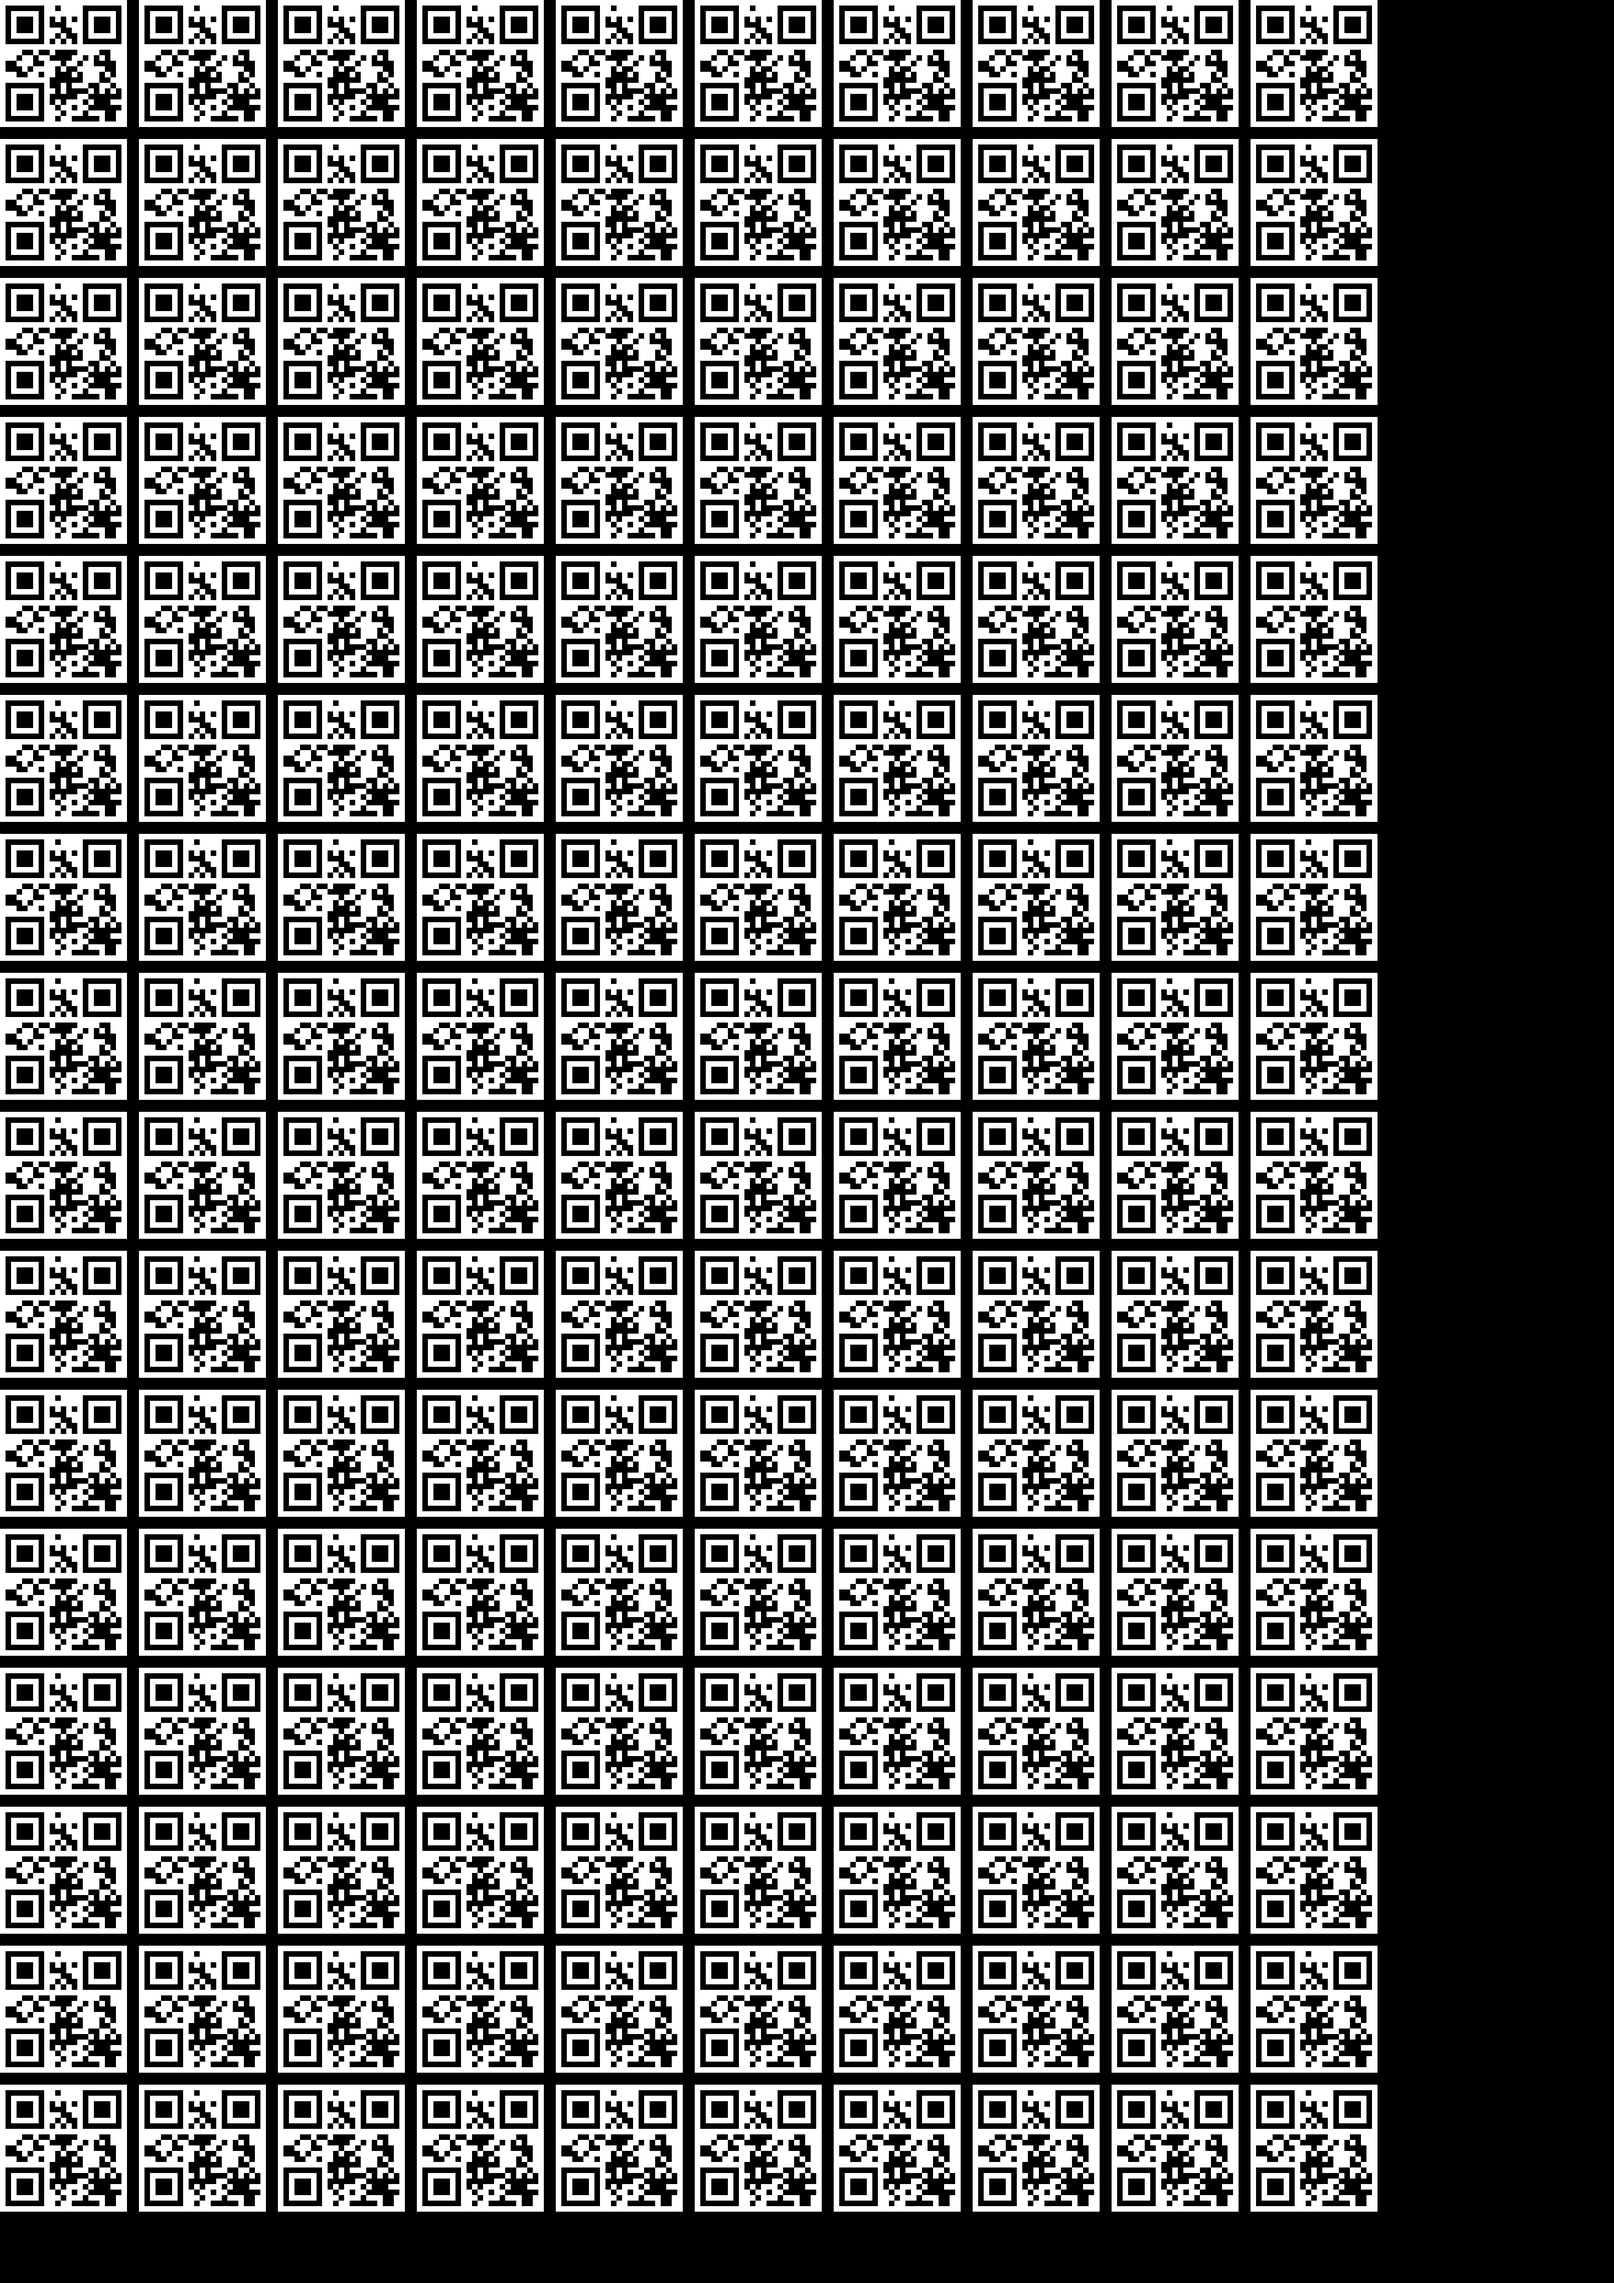
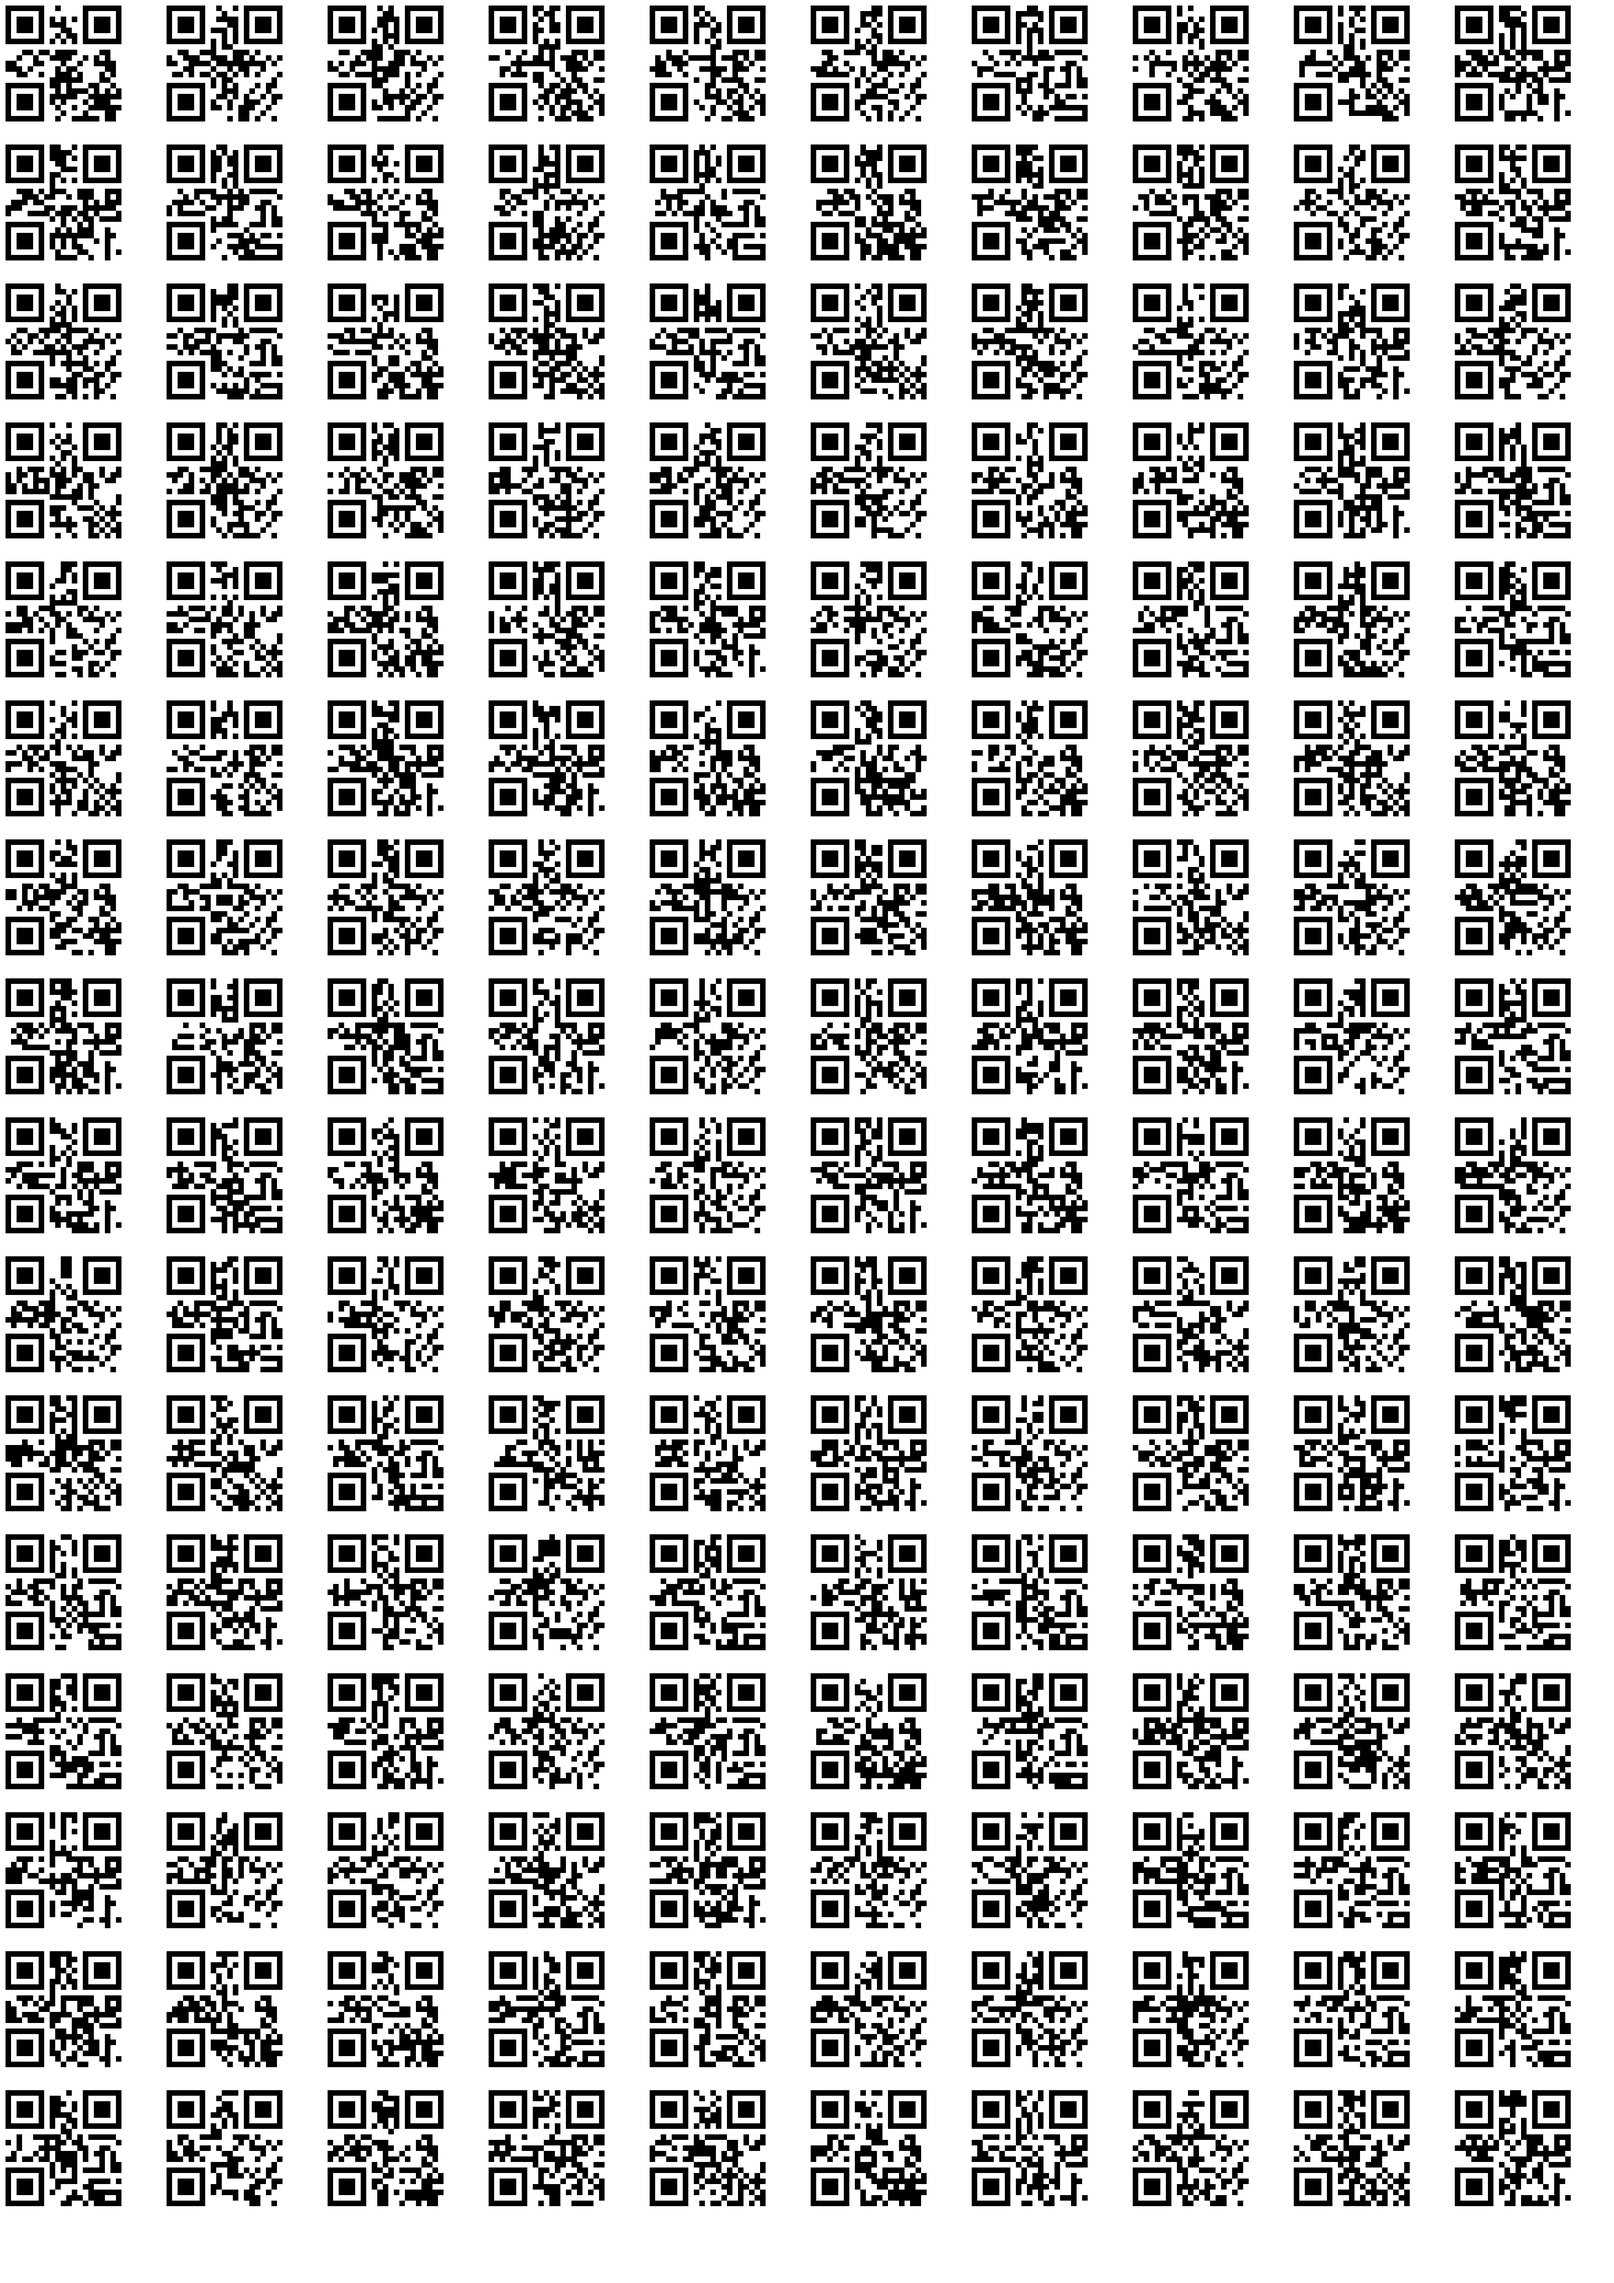
@nd

diff --git a/example/makeimage.py b/example/makeimage.py
@@ -3,36 +3,25 @@ from PIL import Image
 from PIL import ImageFont
 from PIL import ImageDraw
 
-img = Image.new("RGBA",(3508,4961),(0,0,0))
-img.save("f.png")
-
-img = Image.open('f.png')
-img = img.convert("RGBA")
-datas = img.getdata()
-
-newData = []
-for item in datas:
-    if item[0] == 255 and item[1] == 255 and item[2] == 255:
-        newData.append((255, 255, 255, 0))
-    else:
-        newData.append(item)
-
-img.putdata(newData)
-img.save("img2.png", "PNG")
-
+img = Image.new("RGB",(3508,4961),(255,255,255))
 print "Enter starting number"
 start = input()
 
 k = start
 
-background = Image.open("img2.png")
-kid = "KQ16"+str(k).zfill(4)
-foreground = Image.open(kid+".png")
-
+#kid = "KQ16"+str(k).zfill(4)
+#foreground = Image.open(kid+".png")
+"""
+kid = []
+for i in range(16):
+	kid.append([])
+	for j in range(10):
+		kid[i].append("KQ16"+str(i*10+j+k).zfill(4)+".png") 
+print kid
+"""
+count = 0
 for i in range(10):
 	for j in range(16):
-		background.paste(foreground,(i*302,j*302),foreground)
-
-
-#background.paste(foreground,(0*300,2*300),foreground)
-background.save("final.png")
+		img.paste(Image.open("KQ16"+str(j*10+i+k).zfill(4)+".png"),(i*350,j*302))
+		#print "KQ16"+str(i*10+j+k).zfill(4)+".png"
+img.save("final.png")

diff --git a/makeimage.py b/makeimage.py
@@ -3,36 +3,25 @@ from PIL import Image
 from PIL import ImageFont
 from PIL import ImageDraw
 
-img = Image.new("RGBA",(3508,4961),(0,0,0))
-img.save("f.png")
-
-img = Image.open('f.png')
-img = img.convert("RGBA")
-datas = img.getdata()
-
-newData = []
-for item in datas:
-    if item[0] == 255 and item[1] == 255 and item[2] == 255:
-        newData.append((255, 255, 255, 0))
-    else:
-        newData.append(item)
-
-img.putdata(newData)
-img.save("img2.png", "PNG")
-
+img = Image.new("RGB",(3508,4961),(255,255,255))
 print "Enter starting number"
 start = input()
 
 k = start
 
-background = Image.open("img2.png")
-kid = "KQ16"+str(k).zfill(4)
-foreground = Image.open(kid+".png")
-
+#kid = "KQ16"+str(k).zfill(4)
+#foreground = Image.open(kid+".png")
+"""
+kid = []
+for i in range(16):
+	kid.append([])
+	for j in range(10):
+		kid[i].append("KQ16"+str(i*10+j+k).zfill(4)+".png") 
+print kid
+"""
+count = 0
 for i in range(10):
 	for j in range(16):
-		background.paste(foreground,(i*302,j*302),foreground)
-
-
-#background.paste(foreground,(0*300,2*300),foreground)
-background.save("final.png")
+		img.paste(Image.open("KQ16"+str(j*10+i+k).zfill(4)+".png"),(i*350,j*302))
+		#print "KQ16"+str(i*10+j+k).zfill(4)+".png"
+img.save("final.png")

diff --git a/readMe.md b/readMe.md
@@ -1,6 +1,6 @@
 ##QR
 The qrcode.py file gets the sarting id like "1" as input and generates 160 qrimages of the string "KQ160001" in png. For example : if the input is "100", 160 files from "KQ160100" to "KQ160259 " will be generated.
 
-The qrcode.py file takes the starting id like "1" as input and decodes the qr images and prints the generated data.
+The qrcode.py file takes the starting id like "1" as input and decodes the qr images and prints the generated data.This hasnt been completed yet
 
 The makeImage.py file takes the deparate files and makes another file which contains all the images in it.
